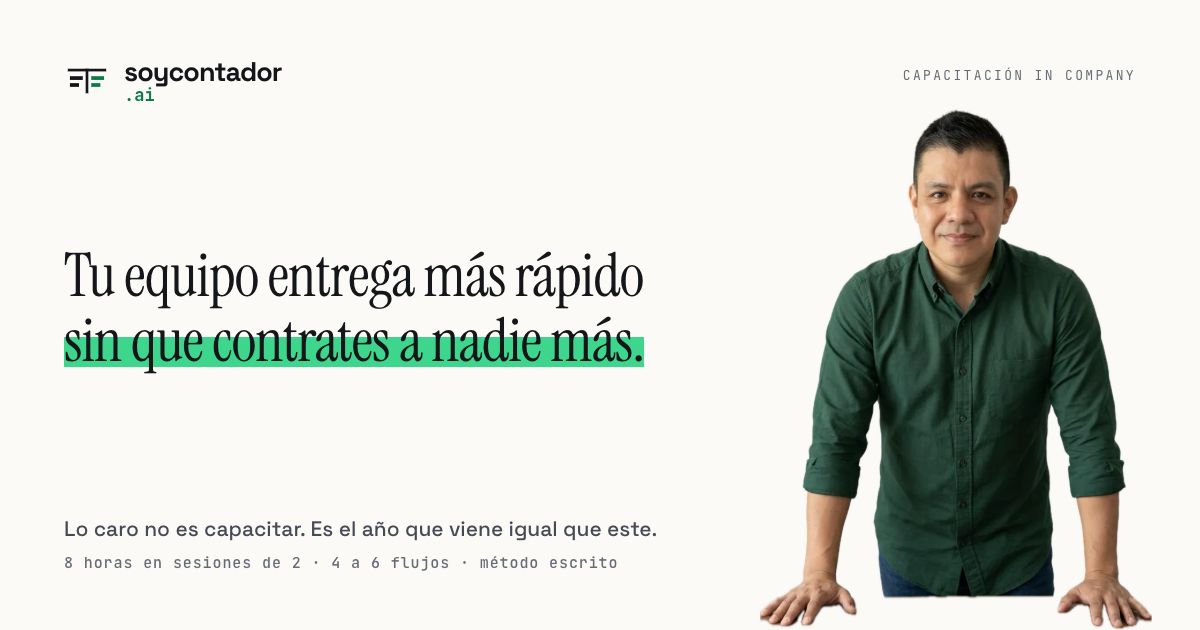
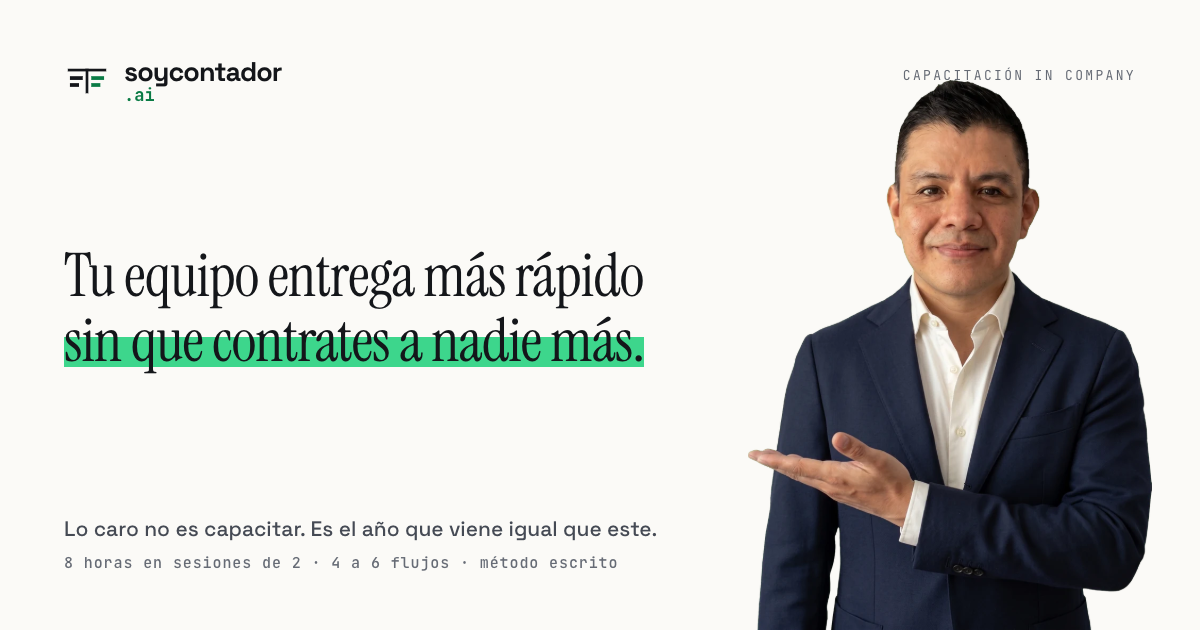
El OG de /despachos va de saco, sin corbata
Decisión de Israel: el registro B2B pide saco. Los colores no se eligieron al
gusto: el navy es el de la sudadera del retrato del sitio (muestreado en
#1D272F, vecino del terminal-bg) y la camisa es el papel cálido (#FBFAF7).

La pose es `present-saco`, no `arms-saco`. Las dos existen ya en el banco,
pero la palma abierta apunta a la izquierda del cuadro, así que con el
retrato a la derecha la mano queda señalando el titular. Brazos cruzados lee
como autoridad; esta página pide invitación.

El retrato sale del banco de poses (todoconta-apps/apps/social-templates),
que ahora tiene la entrada `saco-marino` en el guardarropa. Antes solo había
polo verde, camisa de puntos, camisa azul y camisa clara.

Changed region(s): [[0.6167, 0.1206, 0.9867, 1.0]]

diff --git a/design/og/og-despachos.html b/design/og/og-despachos.html
@@ -94,16 +94,21 @@ body {
   que en la sección de la vuelta del sitio. El borde de la imagen ES el
   suelo; sin ese apoyo la figura flota.
 
-  PARA CAMBIAR DE RETRATO se toca este src y nada más. El guardarropa del
-  banco de poses (todoconta-apps/apps/social-templates) hoy tiene polo
-  verde, camisa de puntos, camisa azul y camisa clara. No hay saco: para
-  eso hay que agregar la entrada al catálogo CAMISAS y generarla.
+  PARA CAMBIAR DE RETRATO se toca este src y nada más. Los retratos salen
+  del banco de poses (todoconta-apps/apps/social-templates, catálogo en
+  src/assets/brand/poses.json).
+
+  Aquí va `present-saco`: saco marino sin corbata, que es el registro B2B,
+  y la palma abierta apunta a la izquierda del cuadro. Con el retrato a la
+  derecha, eso deja la mano señalando el titular. La alternativa es
+  `arms-saco` (brazos cruzados, misma prenda): lee como autoridad en vez de
+  como invitación, y para esta página se prefirió la segunda.
 */
 .retrato {
   position: absolute;
   right: 48px;
   bottom: 0;
-  width: 392px;
+  width: 404px;
   height: auto;
   display: block;
 }
@@ -154,7 +159,7 @@ body {
     </p>
   </div>
 
-  <img class="retrato" src="../../public/assets/israel-apoyado.webp" alt="">
+  <img class="retrato" src="../../public/assets/israel-saco.webp" alt="">
 
   <p class="pie">
     Lo caro no es capacitar. Es el año que viene igual que este.
